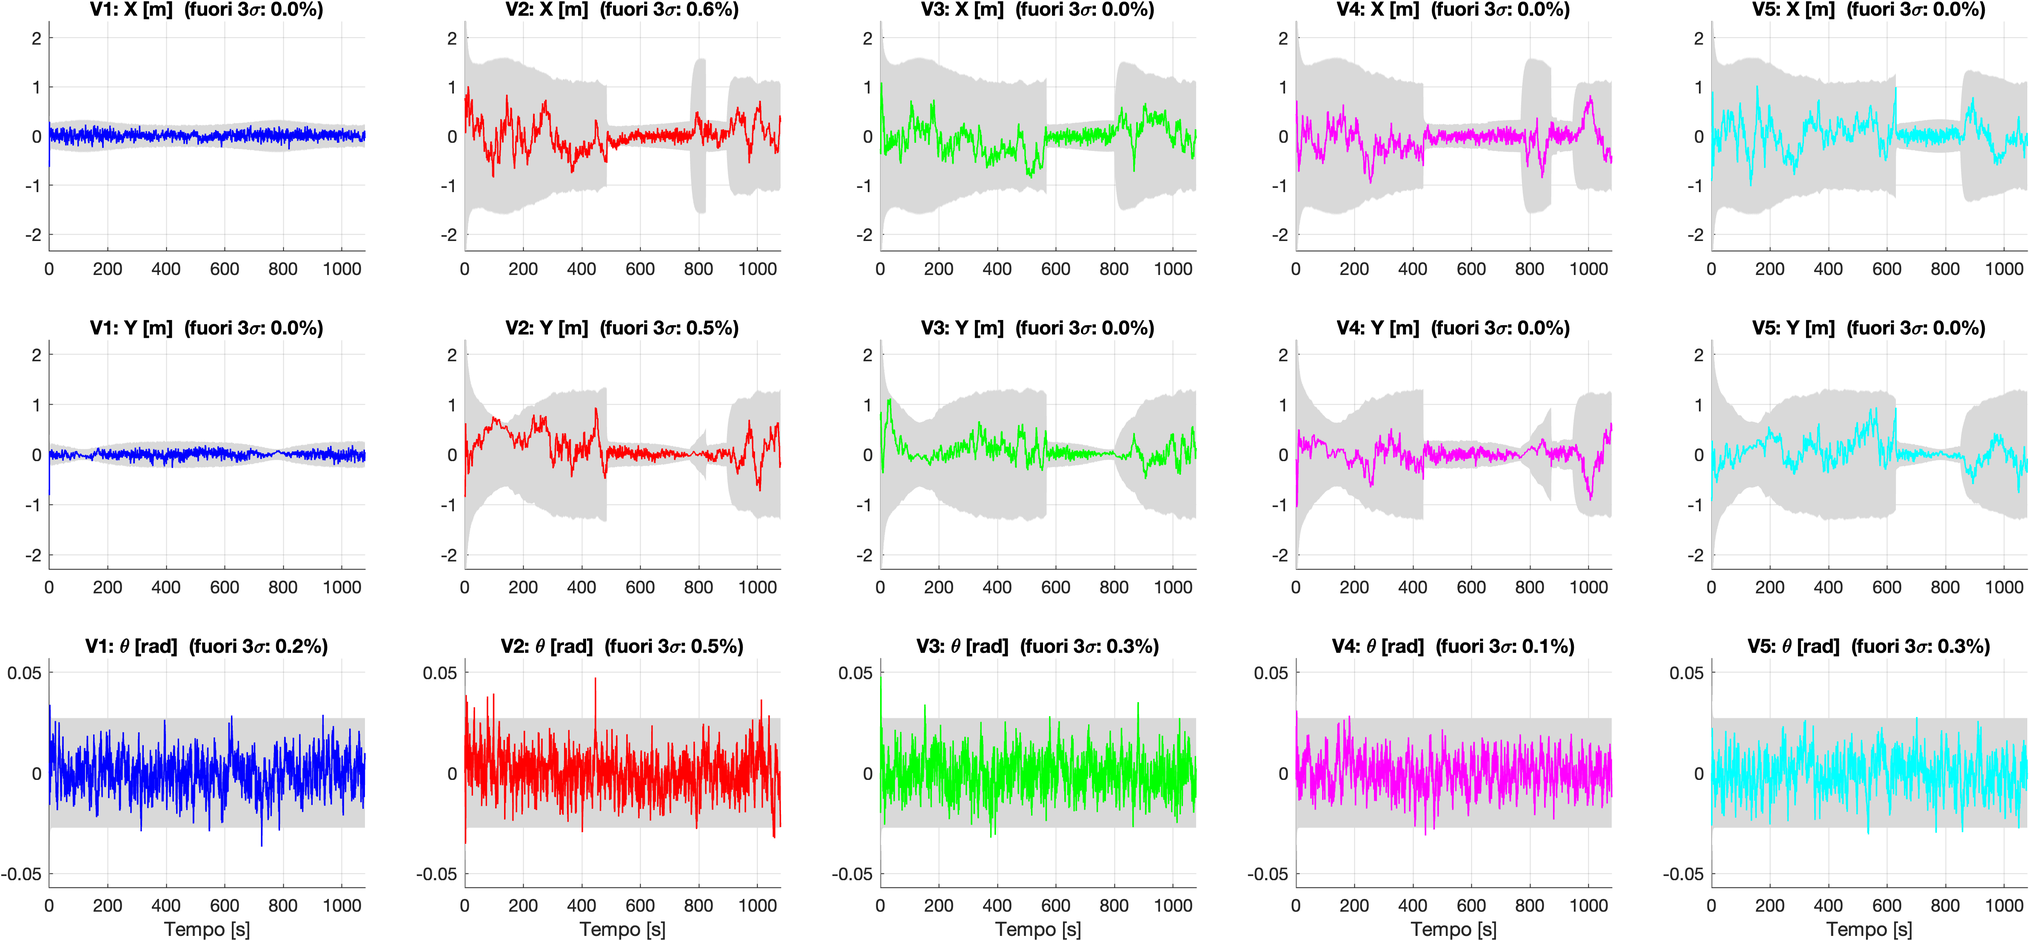
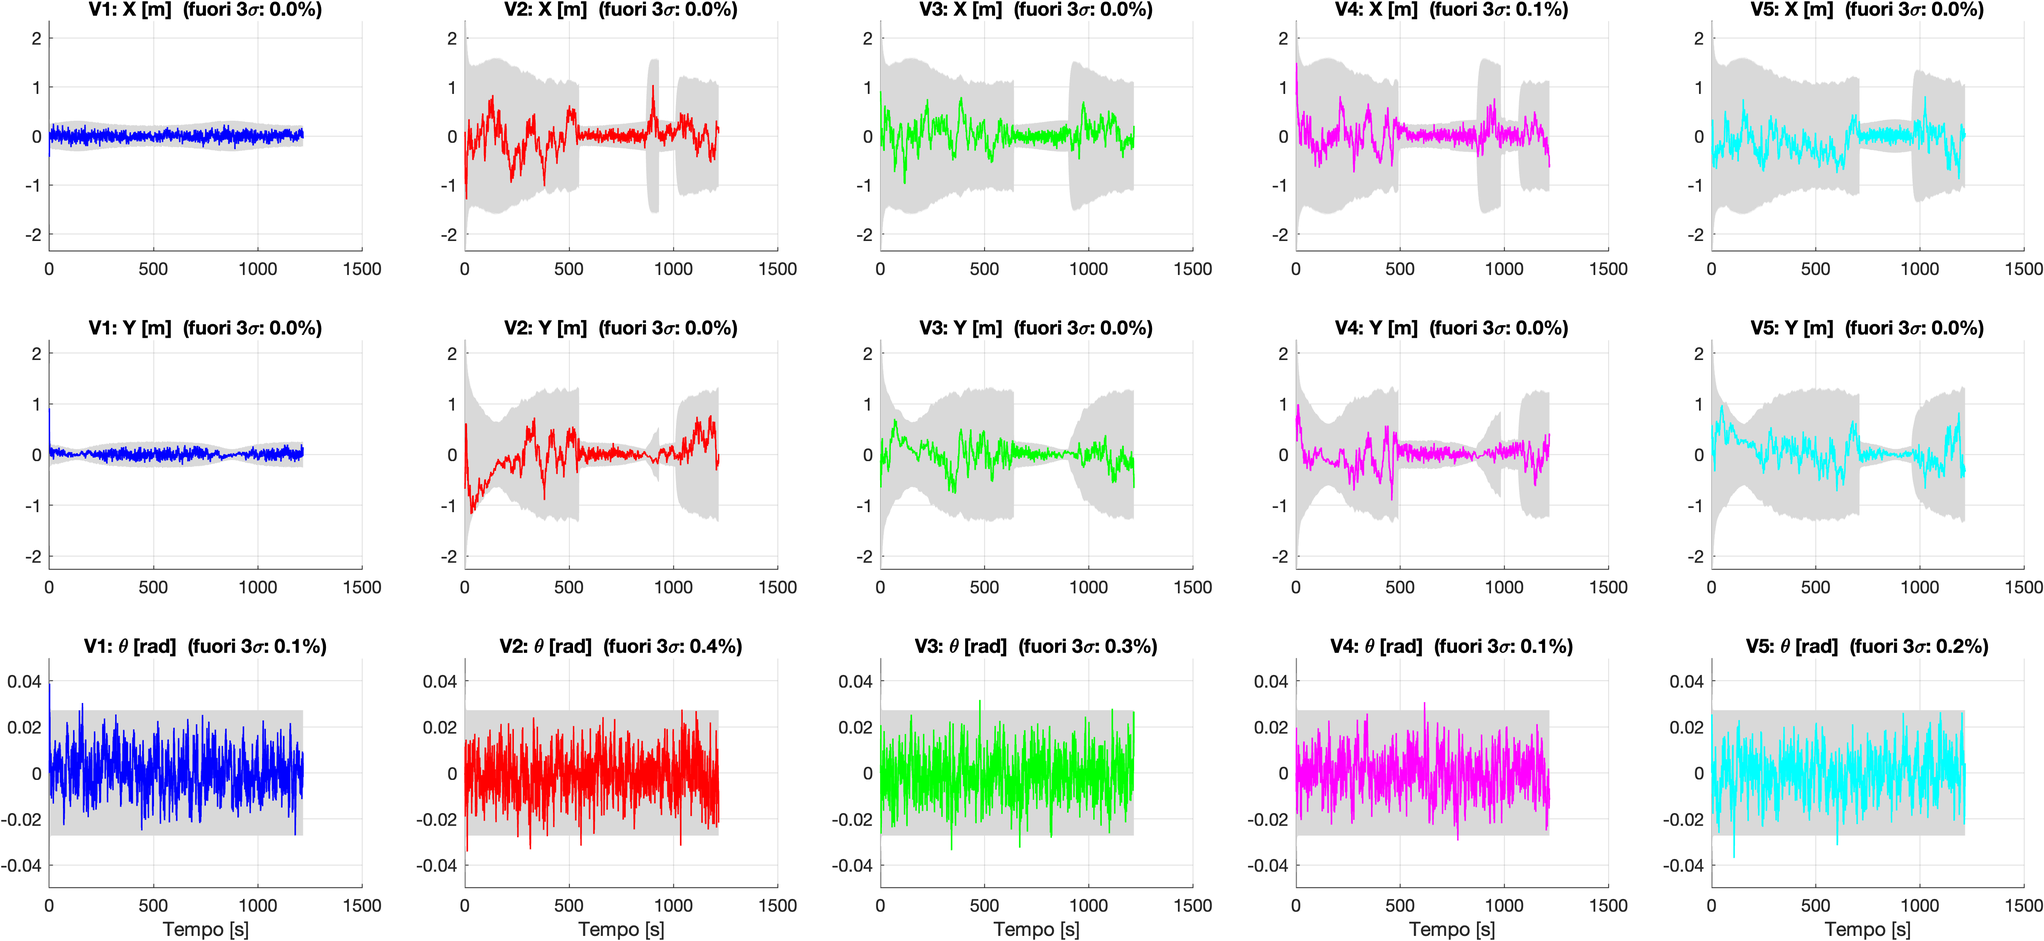
Step 4.3: aggiunta del ritardo e della perdita dei pacchetti.
gestione ritardi:
Passiva per consenso formazione --> uso vecchia posizione
Attiva per ancore uwb mobili --> propago la pos con i vecchi valori di theta, v e omega.

diff --git a/fase_4/main4.m b/fase_4/main4.m
@@ -242,6 +242,30 @@ toll_dwls  = 1e-4;                               % tolleranza sul residuo di con
 % 10%, un disaccordo residuo di 1e-4 e' gia' tre ordini di grandezza sotto cio'
 % che conta. Chiedere di piu' costerebbe cicli senza cambiare il risultato.
 %
+% CANALE DI COMUNICAZIONE: LATENZA E PERDITA DI PACCHETTI
+% Il pacchetto di posa scambiato a 10 Hz non arriva ne' subito ne' sempre.
+%
+% RITARDO: gaussiano centrato a meta' dell'intervallo, troncato agli estremi.
+% La latenza di una rete reale e' in verita' asimmetrica a destra (pavimento
+% fisico, coda da ritrasmissioni), ma la gaussiana simmetrica ha media piu'
+% alta a parita' di massimo, quindi stressa DI PIU' il sistema: e' il verso
+% sicuro. A 10 Hz il ritardo si quantizza comunque su tre soli valori (0, 1 o
+% 2 passi), e la forma della distribuzione conta poco.
+%
+% I 200 ms di massimo sono pessimistici per UWB, dove uno scambio TW-TOF dura
+% circa 1 ms, ma sotto un passo di campionamento il ritardo non sarebbe
+% rappresentabile. Sono anche il 35% del margine di stabilita' del consenso,
+% che per questa topologia vale pi/(2*K_cons*lambda_max(L)) = 0.565 s.
+ritardo_min = 0.0;                              % [s]
+ritardo_max = 0.2;                              % [s]
+ritardo_med = (ritardo_min + ritardo_max) / 2;  % [s] centro della gaussiana
+ritardo_dev = (ritardo_max - ritardo_min) / 6;  % [s] 3 sigma = mezzo intervallo
+perc_loss   = 0.5;                              % [%] pacchetti persi del tutto
+
+% Il modello vale per il broadcast delle pose a 10 Hz. I cicli di consenso del
+% D-WLS, che vivono sulla scala del millisecondo, restano ideali: perdite su
+% quel canale sono materia della Fase 6, dove entra la connettivita' congiunta.
+
 % NUMERO DI CICLI q
 % non e' una costante scritta a mano: consenso_dwls lo dimensiona come
 % q >= log(toll)/log(rho_2), imponendo almeno il diametro del grafo e troncando
@@ -388,18 +412,67 @@ F_ideale    = zeros(2);
 a_ideale    = zeros(2,1);
 dev_v_media = zeros(1, N_veh);   % sigma(v) medio dichiarato dall'EKF
 
+% STATO DEL CANALE
+% k_rx(i,j) e' l'indice del pacchetto piu' fresco che il veicolo i possiede del
+% vicino j. Non serve alcun buffer dedicato: la storia delle stime e' gia' in
+% fleet(j).x_est, e ricevere con ritardo significa semplicemente leggerla piu'
+% indietro. Su un pacchetto perduto l'indice non avanza e il dato invecchia.
+k_rx = ones(N_veh);
+eta_pacchetto = zeros(N_veh, N_veh, N_steps);   % eta' del dato usato, in passi
+n_persi = 0; n_inviati = 0;
+
 for k = 1:N_steps-1
 
-    %% (1) BROADCAST
+    %% (1) BROADCAST SU CANALE NON IDEALE
     % Ogni veicolo pubblica il proprio punto di controllo, ricavato dalla
-    % stima a t_k. E' il solo contenuto del pacchetto usato dal consenso.
+    % stima a t_k. p_ctrl e' il dato VERO trasmesso; quello che i vicini
+    % ricevono e' in ritardo, e a volte non arriva affatto.
     p_ctrl = zeros(2, N_veh);
     for i = 1:N_veh
         xe = fleet(i).x_est(:, k);
         p_ctrl(:, i) = xe(1:2) + param.b * [cos(xe(3)); sin(xe(3))];
     end
 
-    % Grafo di comunicazione a t_k, vincolato dalla portata radio.
+    % Consegna dei pacchetti: per ogni coppia ordinata (ricevente, mittente) si
+    % estrae una perdita e, se il pacchetto passa, un ritardo. L'indice non
+    % puo' arretrare, cosi' un pacchetto tardivo non sostituisce un dato piu'
+    % fresco gia' ricevuto.
+    for i = 1:N_veh
+        for j = 1:N_veh
+            if i == j
+                k_rx(i,j) = k;                  % il proprio dato non transita
+                continue;
+            end
+            n_inviati = n_inviati + 1;
+            if rand()*100 < perc_loss
+                n_persi = n_persi + 1;          % perso: il dato invecchia
+                continue;
+            end
+            d_s = min(max(ritardo_med + ritardo_dev*randn(), ritardo_min), ritardo_max);
+            k_rx(i,j) = max(k_rx(i,j), max(1, k - round(d_s/Ts)));
+        end
+    end
+    eta_pacchetto(:,:,k) = k - k_rx;
+
+    % Cosa ciascun veicolo CREDE degli altri, ricostruito dal pacchetto in suo
+    % possesso. Il consenso usa il dato cosi' com'e', senza compensare il
+    % ritardo: e' la condizione in cui vale il limite di stabilita' teorico.
+    % L'ancora mobile viene invece propagata fino a t_{k+1}, come gia' in Fase 3,
+    % ma ora per l'intera eta' del pacchetto e non per un solo passo.
+    p_ctrl_rx = zeros(2, N_veh, N_veh);
+    p_anc_rx  = zeros(2, N_veh, N_veh);
+    for i = 1:N_veh
+        for j = 1:N_veh
+            xj  = fleet(j).x_est(:, k_rx(i,j));
+            dir = [cos(xj(3)); sin(xj(3))];
+            p_ctrl_rx(:,i,j) = xj(1:2) + param.b * dir;
+            p_anc_rx(:,i,j)  = xj(1:2) + xj(4) * dir * (k + 1 - k_rx(i,j)) * Ts;
+        end
+    end
+
+    % Grafo di comunicazione a t_k, vincolato dalla portata radio. Si costruisce
+    % sulle posizioni CORRENTI perche' essere in portata e' un fatto fisico:
+    % il ritardo riguarda il contenuto del pacchetto, non la sua esistenza.
     % Di pesi_metropolis serve qui il solo rho2, come indicatore di velocita'
     % di convergenza: la legge di controllo e' in forma laplaciana e usa G.A.
     % La matrice Q entra invece nel D-WLS del blocco (6).
@@ -414,14 +487,6 @@ for k = 1:N_steps-1
     lambda_min_Q_hist(k)  = lambda_min_Q;
     rho2_hist(k)       = rho2;
     n_archi_hist(k)    = G.n_archi;
-
-    % Stime dei vicini propagate a t_{k+1}: sono le ancore mobili della
-    % localizzazione collaborativa (nota (c) in testa al ciclo).
-    p_ancora_mobile = zeros(2, N_veh);
-    for j = 1:N_veh
-        xj = fleet(j).x_est(:, k);
-        p_ancora_mobile(:, j) = xj(1:2) + xj(4) * [cos(xj(3)); sin(xj(3))] * Ts;
-    end
 
     %% (2) CONTROLLO e (3) IMPIANTO
     for i = 1:N_veh
@@ -452,7 +517,7 @@ for k = 1:N_steps-1
             % CONSENSO pesato dall'adiacenza: il vicino j contribuisce solo se
             % l'arco esiste, cioe' solo se e' in portata radio.
             if G.A(i,j) > 0
-                err_ij = (p_ctrl(:, i) - p_ctrl(:, j)) - Delta(:, i, j);
+                err_ij = (p_ctrl(:, i) - p_ctrl_rx(:, i, j)) - Delta(:, i, j);
                 u_cons = u_cons - K_cons * G.A(i,j) * err_ij;
             end
 
@@ -461,9 +526,9 @@ for k = 1:N_steps-1
             % forma piu' larga e' conservativa perche' non spegnerebbe la
             % repulsione se il vincolo venisse violato.
             if i ~= j
-                dist = norm(p_ctrl(:, i) - p_ctrl(:, j));
+                dist = norm(p_ctrl(:, i) - p_ctrl_rx(:, i, j));
                 if dist < d_safe && dist > 0.1
-                    grad_d  = (p_ctrl(:, i) - p_ctrl(:, j)) / dist;
+                    grad_d  = (p_ctrl(:, i) - p_ctrl_rx(:, i, j)) / dist;
                     rep_mag = k_rep * (1/dist - 1/d_safe) * (1/dist^2);
                     u_rep   = u_rep + rep_mag * grad_d;
                 end
@@ -594,8 +659,9 @@ for k = 1:N_steps-1
                 if i == j, continue; end
 
                 % La misura e' fisica, fra le posizioni reali a t_{k+1}; la sua
-                % predizione usa invece la stima condivisa del vicino, che e'
-                % l'unica cosa che il veicolo i puo' conoscere.
+                % predizione usa invece l'ultimo pacchetto ricevuto da j,
+                % propagato in avanti per tutta la sua eta'. E' l'unica cosa
+                % che il veicolo i puo' conoscere.
                 %
                 % LIMITE NOTO: R contiene il solo rumore del sensore, e
                 % l'incertezza Sigma_j del vicino e' ignorata: il filtro
@@ -605,7 +671,7 @@ for k = 1:N_steps-1
                 % introdotte insieme (README.md §4, punto 4).
                 d_true = norm(xt_next(1:2) - fleet(j).x_true(1:2, k+1));
                 if d_true <= r_collab
-                    p_j   = p_ancora_mobile(:, j);
+                    p_j   = p_anc_rx(:, i, j);
                     d_est = max(norm(x_pred(1:2) - p_j), 0.1);
 
                     z        = [z; d_true + sigma_collab * randn()];  %#ok<AGROW>
@@ -968,6 +1034,31 @@ for i = 1:N_veh
             mean(e_pos(~cieco)), mean(e_pos(cieco)), ...
             mean(tr_i(~cieco)), mean(tr_i(cieco)));
 end
+
+% RIEPILOGO A CONSOLE: canale di comunicazione
+% L'eta' del pacchetto e' cio' che conta davvero: somma il ritardo di consegna
+% e i passi trascorsi dall'ultimo pacchetto arrivato. E' l'unica grandezza che
+% il filtro subisce.
+eta = eta_pacchetto(:,:,kk);
+eta = eta(~repmat(logical(eye(N_veh)), 1, 1, numel(kk)));   % esclude la diagonale
+tau_med = mean(eta)*Ts;
+tau_max = max(eta)*Ts;
+tau_lim = pi / (2*K_cons*mean(lambda_max_L_hist(kk)));      % Olfati-Saber & Murray
+
+fprintf('\n--- CANALE DI COMUNICAZIONE ---\n');
+fprintf('%-34s %s\n', 'Grandezza', 'Valore');
+fprintf('%-34s %.1f%% richiesto, %.2f%% misurato\n', 'Pacchetti persi', ...
+        perc_loss, 100*n_persi/max(n_inviati,1));
+fprintf('%-34s %.0f-%.0f ms, media %.0f ms\n', 'Ritardo di consegna', ...
+        1e3*ritardo_min, 1e3*ritardo_max, 1e3*ritardo_med);
+fprintf('%-34s %.0f%% / %.0f%% / %.0f%% dei pacchetti\n', 'Ritardo quantizzato 0/1/2 passi', ...
+        100*mean(eta==0), 100*mean(eta==1), 100*mean(eta>=2));
+fprintf('%-34s %.0f ms in media, %.0f ms al massimo\n', 'Eta del dato usato', ...
+        1e3*tau_med, 1e3*tau_max);
+fprintf('%-34s %.0f ms (%.0f%% del limite, %.0f ms)\n', 'Margine di stabilita consumato', ...
+        1e3*tau_med, 100*tau_med/tau_lim, 1e3*tau_lim);
+fprintf('%-34s %.3f m su sigma_collab = %.1f m\n', 'Errore ancora mobile a eta media', ...
+        0.5*0.3*tau_med^2, sigma_collab);
 
 % RIEPILOGO A CONSOLE: grafo di comunicazione
 n_coppie = N_veh*(N_veh-1)/2;

diff --git a/fase_4/README4.md b/fase_4/README4.md
@@ -6,9 +6,9 @@ La Fase 4 rimuove le assunzioni ideali rimaste nell'architettura, una alla volta
 | Passo | Contenuto | Stato |
 |---|---|---|
 | **4.0** | Flotta a $N = 5$ con **grafo non completo**: alcuni mezzi non si vedono | **fatto** |
-| 4.1 | Sensori alle frequenze reali (IMU veloce, GPS lento): architettura multi-rate | da fare |
-| 4.2 | Latenze di canale e *timestamping*, con reinserimento retroattivo nel buffer dell'EKF | da fare |
-| 4.3 | GPS di qualità uniforme: le zone d'ombra dipendono solo dalla posizione spaziale | da fare |
+| **4.1** | Sensori alle **frequenze reali**: il GNSS diventa più lento del passo | **fatto** |
+| **4.2** | Canale con **latenza e perdita di pacchetti** | **fatto** |
+| 4.3 | GPS di qualità uniforme per tutti i veicoli | da fare |
 
 ### 1.1 Che cosa cambia col passo 4.0
 
@@ -53,6 +53,104 @@ $$K_{cons} = \frac{1}{\tau\,\lambda_2(L)} = \frac{1}{2.22 \cdot 0.697} = 0.646$$
 con margine di discretizzazione $K_{cons} T_s \lambda_{max} = 0.28$, ben sotto il limite di stabilità pari a 2. In simulazione $\tau$ risulta effettivamente 2.22 s.
 
 **È il punto in cui $\lambda_2(L)$ smette di essere un indicatore e diventa un parametro di progetto.** Fino alla Fase 3 la connettività algebrica veniva calcolata, graficata e commentata; qui viene *usata* per dimensionare un guadagno.
+
+### 1.4 Passo 4.1 — Sensori alle frequenze reali
+
+Il passo di simulazione resta **10 Hz**. Ogni sensore viene però trattato per quello che è: chi lavora più in fretta del passo si legge a 10 Hz senza penalità, chi lavora più piano fornisce una misura solo ogni $N$ passi.
+
+| Sensore | Modello | Frequenza nativa | Trattamento a 10 Hz |
+|---|---|---|---|
+| AHRS (heading, giroscopio) | **Xsens MTi-3** | 100 Hz interni | letto a 10 Hz, $\sigma$ di targa invariata |
+| Velocità cingoli | sensore Hall sul pignone di trazione | conteggio impulsi | finestra di 100 ms = il passo |
+| Ranging | **Qorvo DW1000** | ~1 ms per scambio TW-TOF | 9 scambi = 9 ms, sta nel passo |
+| GNSS Master | **u-blox ZED-F9P** (RTK) | fino a 20 Hz, usato a **5 Hz** | 1 fix ogni **2** passi |
+| GNSS Slave | **u-blox NEO-M8N** | **1 Hz** nominale | 1 fix ogni **10** passi |
+
+Due scelte vanno motivate, perché la tentazione di fare il contrario è forte.
+
+**L'AHRS non va riscalato.** Un MTi-3 filtra internamente a 100 Hz e restituisce un assetto già elaborato: la $\sigma$ di targa (2° RMS su yaw) vale alla frequenza a cui lo si interroga. Dividere $R$ per 10, come se si mediassero dieci campioni grezzi indipendenti, sarebbe sbagliato due volte — la media è già stata fatta a bordo del sensore, e l'heading nel frattempo ruota, quindi mediarlo introdurrebbe un bias.
+
+**Gli encoder non hanno una frequenza, hanno una finestra.** Un sensore a conteggio di impulsi integra su un intervallo: 100 ms è esattamente ciò che il passo di simulazione già rappresenta.
+
+**Resta il solo GNSS più lento del passo, e va decimato.** Campionarlo a 10 Hz significherebbe dargli fino a dieci volte le misure che produce, cioè dichiarare un ricevitore migliore di quello montato: con un NEO-M8N a 1 Hz l'equivalente sarebbe $\sigma_{eff} = 2.0/\sqrt{10} = 0.63$ m anziché 2.0 m.
+
+Nel codice la distinzione fra "il segnale esiste" e "il ricevitore ha prodotto una soluzione" è tenuta separata:
+
+```matlab
+fix_gps = ~in_denied && mod(k, fleet(i).passi_gps) == 0;
+```
+
+`in_denied` resta una proprietà della mappa, e continua ad alimentare le statistiche di copertura e le fasce ombreggiate nei grafici. La conseguenza operativa è che uno Slave a cielo aperto passa il **90% dei passi in sola predizione**, sostenuto da AHRS ed encoder.
+
+### 1.5 Passo 4.2 — Canale con latenza e perdite
+
+Il pacchetto di posa scambiato a 10 Hz non arriva né subito né sempre.
+
+| Parametro | Valore |
+|---|---|
+| Ritardo | gaussiano, $\mathcal{N}(100\text{ ms},\ (33\text{ ms})^2)$ troncato a $[0, 200]$ ms |
+| Perdita di pacchetti | 0.5% |
+
+**Sulla forma della distribuzione.** Le latenze di una rete reale sono asimmetriche a destra: c'è un pavimento fisico dato dal tempo di trasmissione, la moda sta vicino a quel pavimento, e la coda lunga viene da ritrasmissioni e collisioni. Una gaussiana simmetrica non è fedele, ma è **conservativa** — a parità di massimo ha media più alta, quindi stressa di più il sistema — e a 10 Hz il ritardo si quantizza comunque su tre soli valori (0, 1 o 2 passi), il che rende la forma in gran parte irrilevante. I 200 ms di massimo sono pessimistici per UWB, dove uno scambio dura ~1 ms, ma sotto un passo di campionamento il ritardo non sarebbe rappresentabile.
+
+**Non serve il timestamping**, e non è una scorciatoia: è che il progetto non ha il problema che il timestamping risolve. Vanno distinti due ritardi.
+
+- **Posa dell'ancora vecchia.** Il pacchetto del vicino arriva vecchio, ma la misura di distanza la fa la propria radio *adesso*: è fresca. Stale è solo la posizione usata per predirla, e si rimedia propagandola in avanti col modello di moto — esattamente ciò che la Fase 3 già faceva per un passo.
+- **Misura fuori sequenza (OOSM).** Una misura *del proprio stato*, presa nel passato, che arriva adesso. Lì servirebbe tornare indietro nel buffer, applicarla al momento giusto e ri-propagare.
+
+Il caso del progetto è il primo. Nessun veicolo trasmette misure *altrui*: trasmette la propria posa, che il ricevente usa come ancora. Niente buffer di $(\hat x, \Sigma)$, niente retrodizione.
+
+E il buffer, di fatto, esiste già: `fleet(j).x_est` è l'intera storia delle stime. Ricevere con ritardo significa semplicemente **leggerla più indietro**:
+
+```matlab
+k_rx(i,j) = max(k_rx(i,j), max(1, k - round(d_s/Ts)));
+```
+
+`k_rx(i,j)` è l'indice del pacchetto più fresco che $i$ possiede di $j$. Il `max` esterno impedisce che un pacchetto tardivo sostituisca un dato più recente già ricevuto. Su un pacchetto perso l'indice non avanza e il dato invecchia da solo: **ritardo e perdita si compongono in un'unica grandezza**, l'*età* del dato usato, che è l'unica cosa che il filtro subisce.
+
+Il consenso usa il dato ricevuto **senza compensare** il ritardo — è la condizione in cui vale il limite di stabilità teorico — mentre l'ancora mobile viene propagata fino a $t_{k+1}$ per tutta la sua età.
+
+Il modello vale per il broadcast delle pose a 10 Hz. I cicli di consenso del D-WLS, che vivono sulla scala del millisecondo, restano ideali: perdite su quel canale sono materia della Fase 6, dove entra la connettività congiunta.
+
+### 1.6 Risultati dei passi 4.1 e 4.2
+
+**Il canale si comporta come richiesto.**
+
+| Grandezza | Valore misurato |
+|---|---|
+| Pacchetti persi | 0.48% (richiesto 0.5%) |
+| Ritardo quantizzato 0 / 1 / 2 passi | 7% / 87% / 7% |
+| Età del dato usato | **100 ms in media, 400 ms al massimo** |
+| Margine di stabilità consumato | 18% in media, 71% nel caso peggiore (limite 565 ms) |
+| Errore dell'ancora mobile all'età media | 0.002 m, contro $\sigma_{collab} = 0.6$ m |
+
+L'età massima di 400 ms nasce da due passi di ritardo più due passi di perdite consecutive — un evento raro (probabilità $2.5\cdot10^{-5}$ per coppia e per passo) ma che su 240 000 tentativi si presenta qualche volta. È il caso peggiore, e mangia il **71%** del margine di stabilità.
+
+**Sull'accuratezza il GNSS lento domina, il ritardo no.**
+
+| Veicolo | MAE con GPS | MAE in zona cieca | $\mathrm{tr}(\Sigma_{pos})$ con GPS / cieca |
+|---|---|---|---|
+| V1 (Master, ZED-F9P a 5 Hz) | 0.070 m | 0.078 m | 0.0140 / 0.0129 m² |
+| V2 (Slave, NEO-M8N a 1 Hz) | 0.347 m | 0.086 m | 0.3321 / 0.0124 m² |
+| V3 | 0.332 m | 0.073 m | 0.3341 / 0.0131 m² |
+| V4 | 0.311 m | 0.084 m | 0.3323 / 0.0163 m² |
+| V5 | 0.389 m | 0.075 m | 0.3330 / 0.0143 m² |
+
+Il Master perde poco (0.061 → 0.070 m): a 5 Hz il fix RTK arriva ancora abbastanza spesso. Gli Slave passano da 0.19–0.21 a **0.31–0.39 m**, quasi il doppio, perché fra un fix e l'altro dead-reckonano per un secondo intero.
+
+**In zona cieca invece non cambia quasi nulla** (0.073–0.089 m, era 0.074–0.089): là il riferimento è il ranging UWB, che gira a 10 Hz e non è stato toccato.
+
+Il risultato già osservato al passo 4.0 ne esce **molto rafforzato**: gli Slave ora stimano **quattro volte meglio al buio che a cielo aperto**, e la covarianza dichiarata concorda con un fattore 27 ($0.332$ contro $0.0124$ m²). Non è un paradosso, è la conseguenza diretta di confrontare un NEO-M8N a 1 Hz con cinque ancore UWB a 10 Hz e $\sigma = 0.5$ m.
+
+**Il ritardo costa velocità, non accuratezza.** La missione passa da 1078.5 a **1218.1 secondi**, il 13% più lenta, a parità di tutto il resto. Il consenso agisce su errori di formazione vecchi di 100 ms, il che equivale a ridurre il guadagno d'anello: la flotta resta stabile — si consuma il 18% del margine — ma reagisce più pigramente. È l'unico effetto del passo 4.2 che si vede sui numeri, e va attribuito al ritardo e non alle perdite.
+
+**Lo 0.5% di perdita è di fatto invisibile.** Con quella probabilità l'età media del dato cresce di 0.005 passi, cioè mezzo millisecondo: sotto ogni soglia di rilevabilità. Per vedere un effetto servirebbe il 5–10%, che è materia della Fase 6.
+
+### 1.7 Conseguenza da registrare: l'architettura a commutazione ora costa
+
+Il ramo UWB scatta solo dentro le zone cieche. Uno Slave a cielo aperto, nel 90% dei passi in cui non ha un fix GNSS, **non usa le ancore anche quando le ha in portata**: procede in sola predizione.
+
+Era una semplificazione accettabile con il GPS a 10 Hz. Con il GNSS a 1 Hz costa 0.35 m di errore là dove le ancore ne darebbero 0.08. La correzione è una riga — sostituire il ramo `elseif in_denied` con una condizione sulla visibilità delle ancore — ed è ora sostenuta dai dati, non da un'intuizione. È il candidato naturale al prossimo intervento.
 
 ## 2. Navigazione e Path-Following
 Il veicolo Master (Veicolo 1) guida la formazione lungo il percorso specificato in `path_points`. Viene implementato un algoritmo di inseguimento del target virtuale (*Virtual Target Tracking*):
@@ -121,15 +219,14 @@ Resta il 9.4% di campioni in cui **nessun** veicolo dispone di riferimenti assol
 
 **c) Accuratezza della stima di posa.** Errore medio di posizione e traccia della covarianza, separati fra copertura GPS e zona cieca, su missione completa (1078.6 s):
 
-| Veicolo | MAE con GPS | MAE in zona cieca | $\mathrm{tr}(\Sigma_{pos})$ con GPS / cieca |
-|---|---|---|---|
-| V1 (Master, GPS RTK) | 0.061 m | 0.077 m | 0.0094 / 0.0129 m² |
-| V2 (Slave, GPS standard) | 0.190 m | 0.081 m | 0.1015 / 0.0123 m² |
-| V3 (Slave, GPS standard) | 0.213 m | 0.074 m | 0.1016 / 0.0131 m² |
-| V4 (Slave, GPS standard) | 0.199 m | 0.089 m | 0.1015 / 0.0162 m² |
-| V5 (Slave, GPS standard) | 0.205 m | 0.075 m | 0.1013 / 0.0142 m² |
+I valori aggiornati ai passi 4.1 e 4.2 sono nella tabella del §1.6. Prima della decimazione del GNSS, con tutti i sensori a 10 Hz, valevano:
 
-**Per gli Slave la stima in zona GPS-denied è più accurata che a cielo aperto** — 0.074–0.089 m contro 0.190–0.213 m — e la covarianza dichiarata concorda, scendendo di un fattore 7. Non è un paradosso: il ranging UWB a $\sigma = 0.5$ m da cinque ancore geometricamente ben distribuite porta più informazione di un GPS standard a $\sigma = 2.0$ m. Il risultato suggerisce che in un'area attrezzata con ancore converrebbe fondere UWB e GPS *simultaneamente* anziché commutare fra i due; l'architettura a $C$ di dimensione variabile lo consente già senza modifiche strutturali.
+| Veicolo | MAE con GPS | MAE in zona cieca |
+|---|---|---|
+| V1 (Master, GPS RTK) | 0.061 m | 0.077 m |
+| V2–V5 (Slave, GPS standard) | 0.190–0.213 m | 0.074–0.089 m |
+
+**Per gli Slave la stima in zona GPS-denied è più accurata che a cielo aperto**, e la covarianza dichiarata concorda. Il divario, già presente qui, si allarga a un fattore 4 con il GNSS alla sua frequenza reale. Non è un paradosso: il ranging UWB a $\sigma = 0.5$ m da cinque ancore geometricamente ben distribuite porta più informazione di un GPS standard a $\sigma = 2.0$ m. Il risultato suggerisce che in un'area attrezzata con ancore converrebbe fondere UWB e GPS *simultaneamente* anziché commutare fra i due; l'architettura a $C$ di dimensione variabile lo consente già senza modifiche strutturali.
 
 Il fatto che i quattro Slave siano fra loro indistinguibili, comprese le due ali esterne che hanno un solo vicino ciascuna, indica che il grafo sparso non degrada la localizzazione: le ancore fisse restano il riferimento dominante in zona cieca, e il ranging collaborativo è un contributo aggiuntivo, non il sostegno principale.
 
